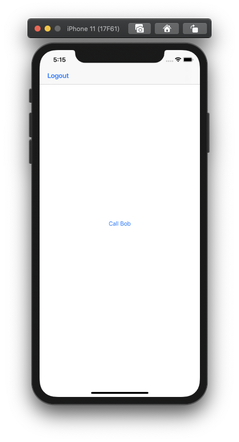
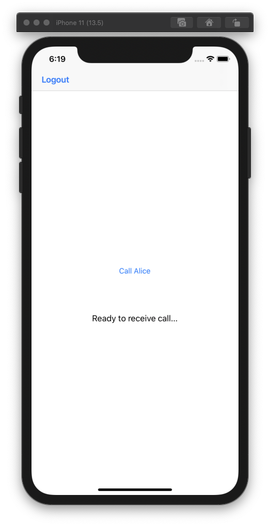
Move app to app tutorial to server call handler

Changed region(s): [[0.0293, 0.0, 0.9665, 1.0], [0.3222, 0.5882, 0.6444, 0.6176], [0.4393, 0.5, 0.5565, 0.5294]]

diff --git a/_tutorials/en/client-sdk/app-to-app/call-ui/swift.md b/_tutorials/en/client-sdk/app-to-app/call-ui/swift.md
@@ -48,7 +48,7 @@ class CallViewController: UIViewController {
         setHangUpButtonHidden(true)
         view.addSubview(hangUpButton)
         
-        setStatusLabelText("")
+        setStatusLabelText("Ready to receive call...")
         statusLabel.textAlignment = .center
         statusLabel.translatesAutoresizingMaskIntoConstraints = false
         view.addSubview(statusLabel)
@@ -113,15 +113,18 @@ class CallViewController: UIViewController {
         fatalError("init(coder:) has not been implemented")
     }
 ```
-This defines a custom initializer for the class which has a `User.type` as its parameter, which then gets stored in the local `user` property. Now that we have the user information you use the `callButton` to show who the user will be calling, in `viewDidLoad` add:
+This defines a custom initializer for the class which has a `User.type` as its parameter, which then gets stored in the local `user` property. Now that you have the user information you can use the `callButton` to show who the user will be calling, in `viewDidLoad` add the following.
 
 ```swift
 navigationItem.leftBarButtonItem = 
 UIBarButtonItem(title: "Logout", style: .done, target: self, action: #selector(self.logout))
 callButton.setTitle("Call \(user.callPartnerName)", for: .normal)
+if user.name == "Alice" {
+    callButton.alpha = 0
+}
 ```
 
-This will also creates a logout button in the navigation bar, add the `logout` function to the end of `CallViewController.swift`:
+This will hide the call button for Alice since for this demonstration only Bob will be able to make a call to Alice. In a production application the `NCCO` that is returned by your application's answer URL will dynamically return the correct username to avoid this. It also creates a logout button in the navigation bar, add the corresponding `logout` function to the end of `CallViewController.swift` 
 
 ```swift 
 class CallViewController: UIViewController {

diff --git a/_tutorials/en/client-sdk/app-to-app/make-call/swift.md b/_tutorials/en/client-sdk/app-to-app/make-call/swift.md
@@ -25,7 +25,7 @@ class CallViewController: UIViewController {
     @objc private func makeCall() {
         setStatusLabelText("Calling \(user.callPartnerName)")
 
-        client.call(user.callPartnerName, callHandler: .inApp) { error, call in
+        client.call(user.callPartnerName, callHandler: .server) { error, call in
             if error != nil {
                 self.setStatusLabelText(error?.localizedDescription)
                 return
@@ -38,11 +38,11 @@ class CallViewController: UIViewController {
 }
 ```
 
-The `makeCall` function uses the `NXMClient` instance to make the call. If there is no error the call's delegate is set so that changes to the call can be monitored and the `hangUpButton` is made visible.  
+The `makeCall` function uses the `NXMClient` instance to make the call. The Client SDK supports making calls with the server, your answer URL that provides a `NCCO`, or directly in app. If there is no error the call's delegate is set so that changes to the call can be monitored and the `hangUpButton` is made visible.  
 
 
 ## Build and run
 
-Press `Cmd + R` to build and run again. You now have a functioning call app! To test it out you can run the app on two different simulators/devices:
+Press `Cmd + R` to build and run again. You now have a functioning call app! To test it out you can run the app on two different simulators/devices, and call the device logged in as the Alice user from the device logged in as the Bob user:
 
 ![Sent messages](/images/client-sdk/ios-in-app-voice/active-call.png)

diff --git a/_tutorials/en/client-sdk/app-to-app/receive-call/swift.md b/_tutorials/en/client-sdk/app-to-app/receive-call/swift.md
@@ -77,7 +77,7 @@ class CallViewController: UIViewController {
     @objc private func endCall() {
         call?.hangup()
         self.setHangUpButtonHidden(true)
-        self.setStatusLabelText("")
+        self.setStatusLabelText("Ready to receive call...")
     }
 }
 ```
